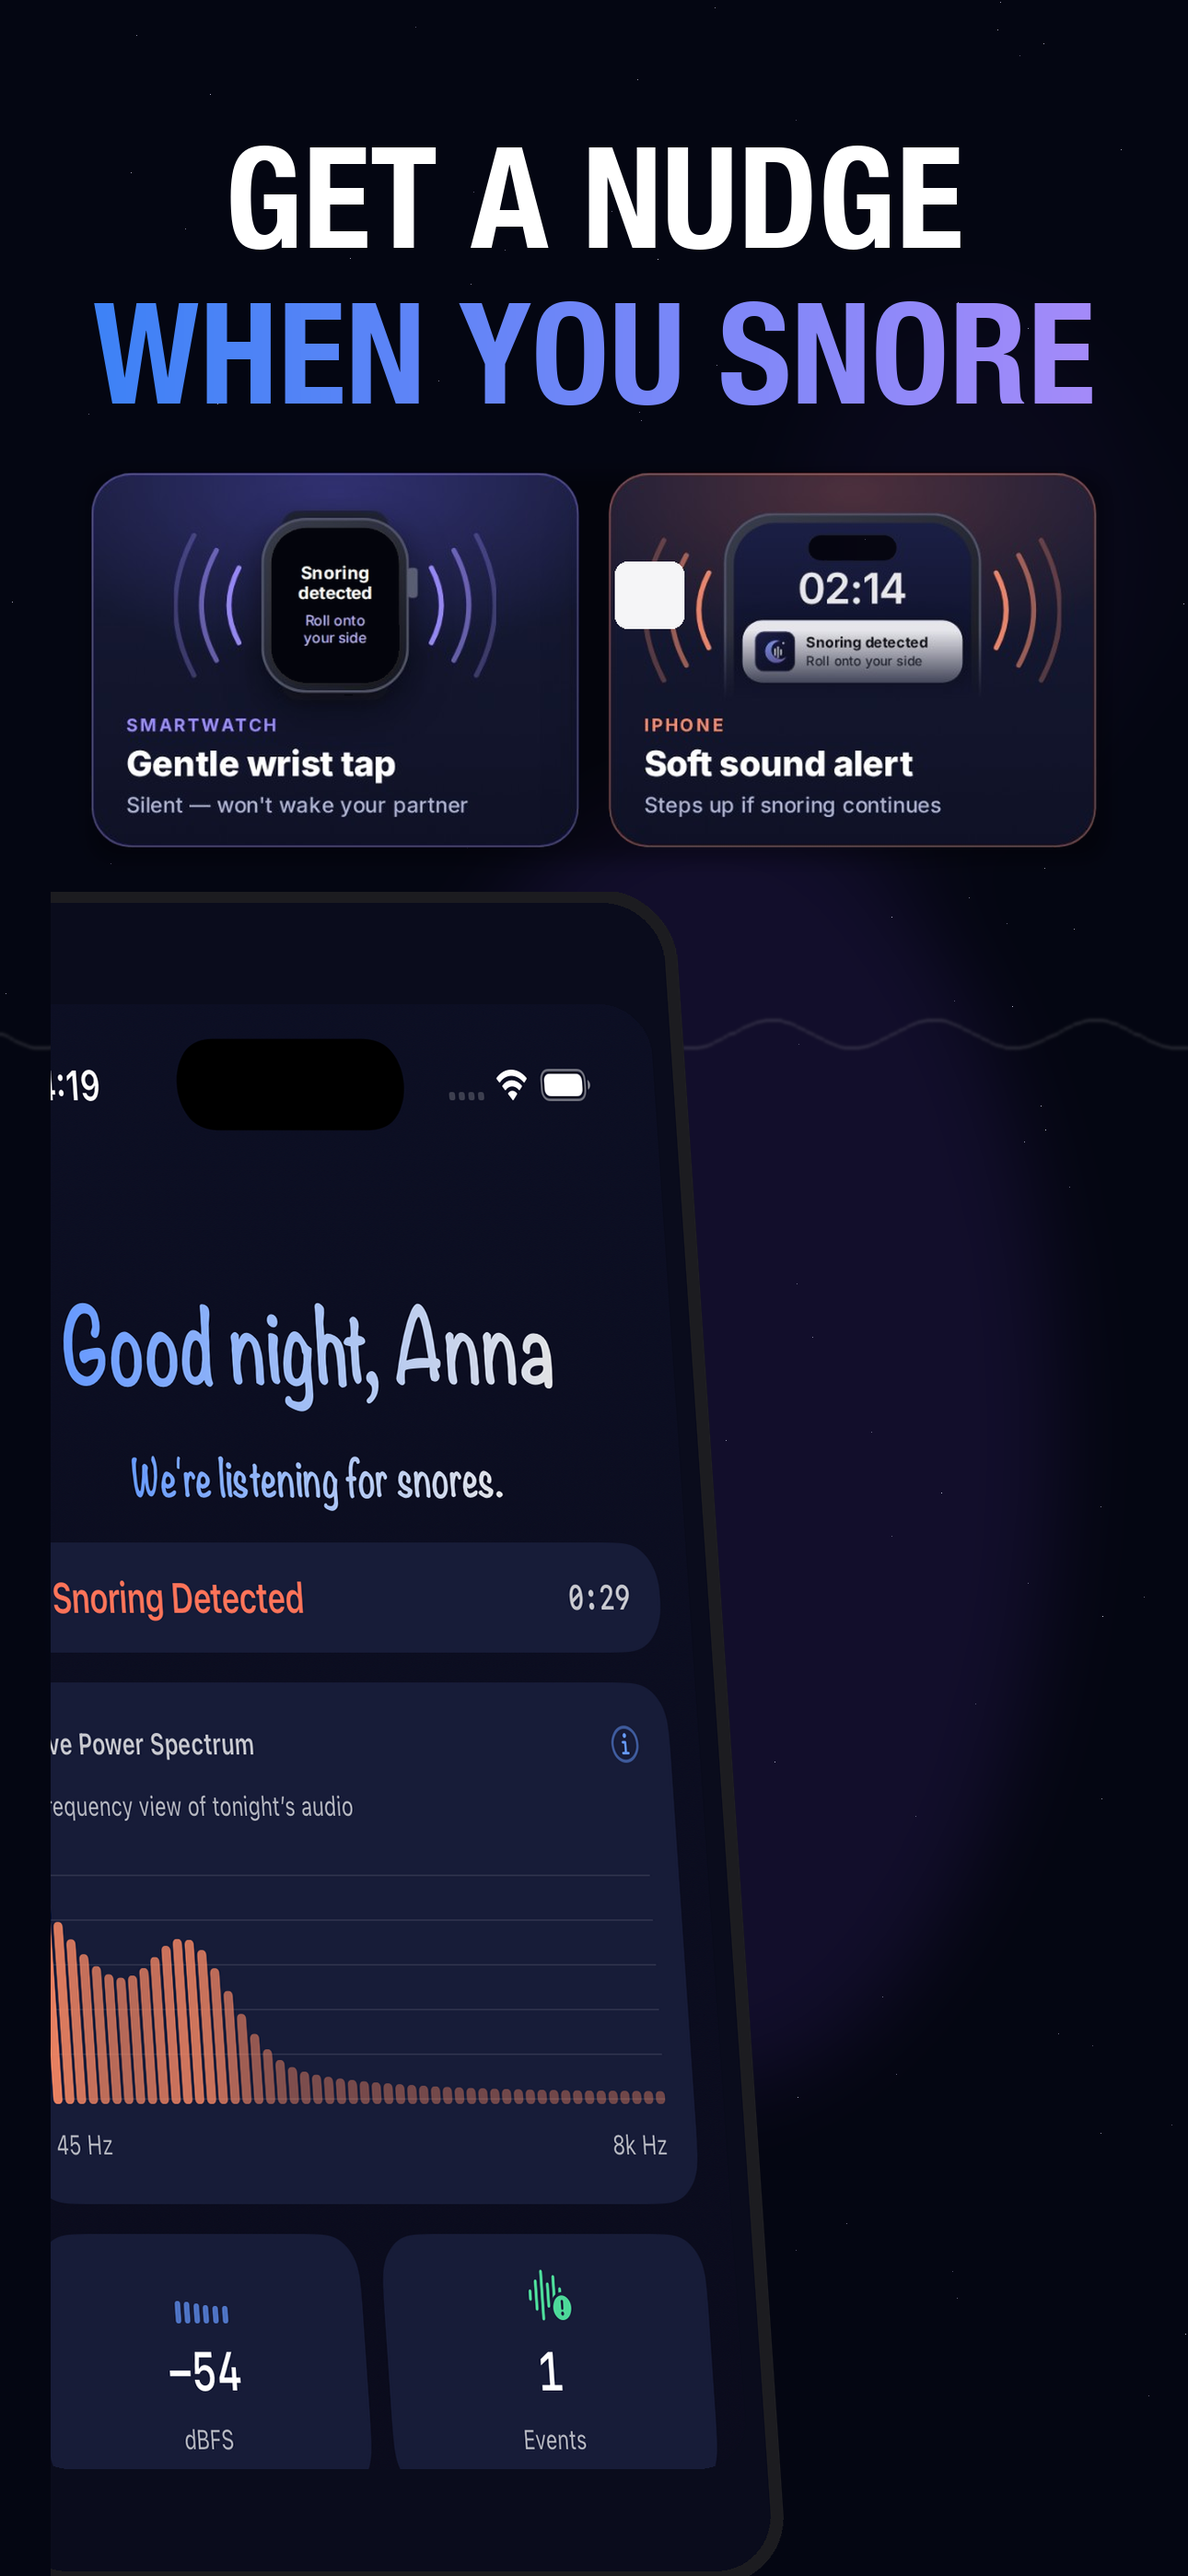
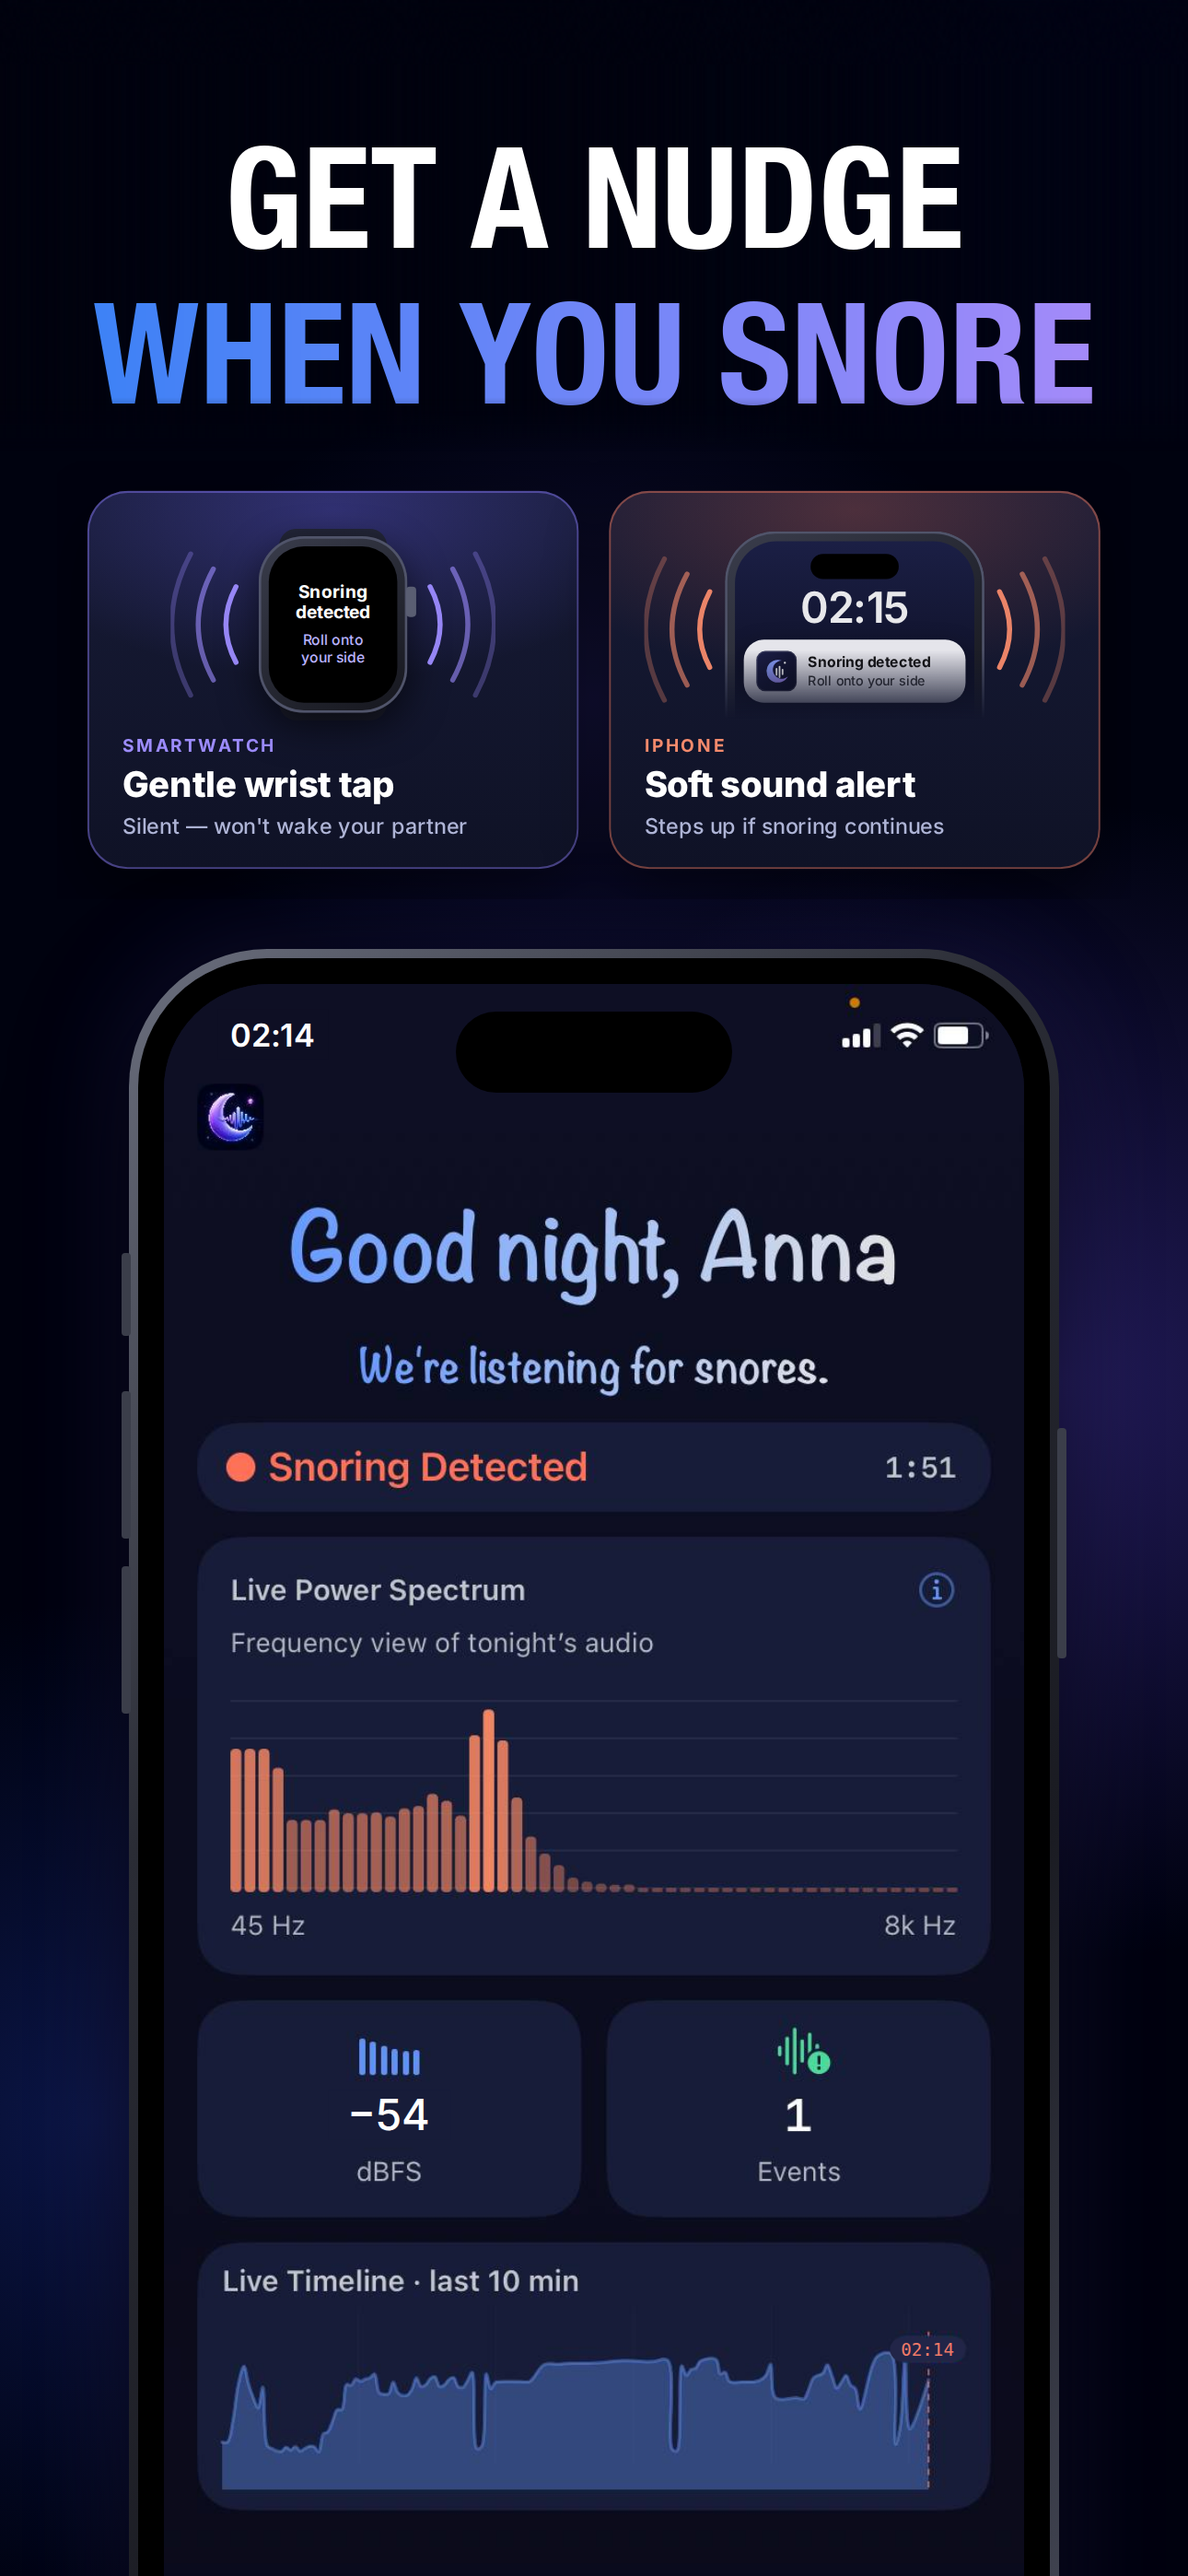
Update marketing assets and script for app store screens
- Replaced the images for "01_a-nudge-when-you-snore.png" and "02_see-when-you-snored.png" with updated versions.
- Modified the build_appstore_screens.py script to prevent overwriting the manual mockup for the nudge frame, ensuring it remains unchanged for marketing purposes.

diff --git a/Marketing/build_appstore_screens.py b/Marketing/build_appstore_screens.py
@@ -484,8 +484,8 @@ def nudge_frame() -> None:
     OUT.mkdir(parents=True, exist_ok=True)
     out_name = "01_a-nudge-when-you-snore.png"
     im.save(OUT / out_name, "PNG")
-    im.save(MARKETING_OUT / out_name, "PNG")
-    print("wrote", out_name)
+    # Frame 01 is a manual mockup in Marketing/ — do not overwrite it from the script.
+    print("wrote", out_name, "(Dropbox only; Marketing/01 kept as manual mockup)")
 
 
 def habits_frame() -> None:
